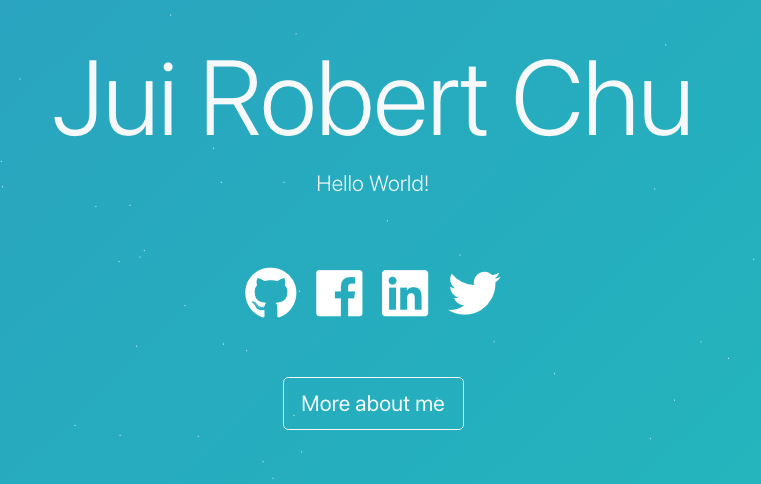
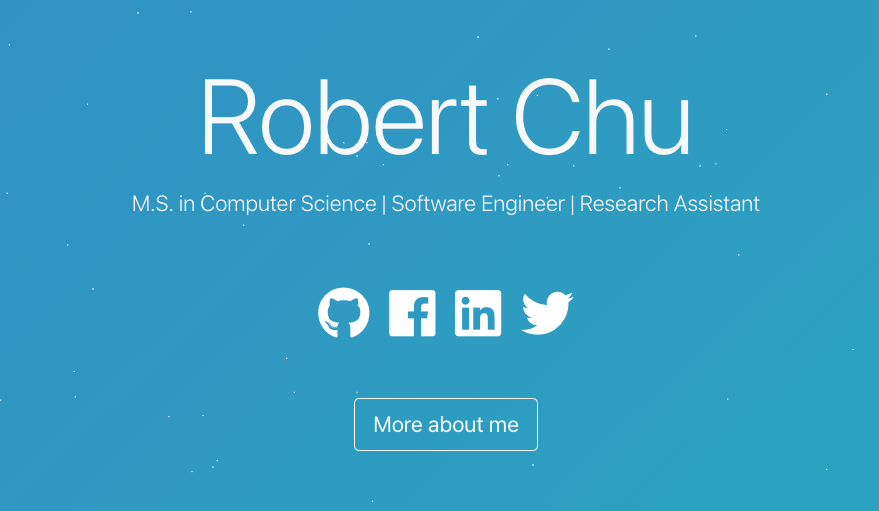
update experience layout

diff --git a/src/editable-stuff/config.js b/src/editable-stuff/config.js
@@ -6,10 +6,10 @@ const navBar = {
 // Main Body SECTION
 const mainBody = {
   gradientColors: "#4484ce, #1ad7c0, #ff9b11, #9b59b6, #ff7f7f, #ecf0f1",
-  firstName: "Jui",
-  middleName: "Robert",
+  firstName: "Robert",
+  middleName: "",
   lastName: "Chu",
-  message: " M.S. in Computer Science | Software Engineer | Research Assistant ",
+  message: " Computer Science | Software Engineer | Research Assistant ",
   icons: [
     {
       image: "fa-github",
@@ -25,7 +25,7 @@ const mainBody = {
     },
     {
       image: "fa-twitter",
-      url: "https://twitter.com/robertchu97",
+      url: "",
     },
   ],
 };
@@ -47,10 +47,10 @@ const mainBody = {
 const about = {
   show: true,
   heading: "About Me",
-  imageLink: require("../editable-stuff/robertchu_2.jpg"),
-  imageSize: 225,
+  imageLink: require("../editable-stuff/robertchu.jpg"),
+  imageSize: 150,
   message:
-    "Robert is a CS major and researcher in Machine Understanding, working toward Software Development to unleash his knowledge. Robert loves to deal with social issues by initiating valuable research topics and to apply his academic experience to industrial solutions, and he is ready to explore MORE!",
+    "Loading...",
   resume: "https://drive.google.com/file/d/1oPNTf5x1EY4gbvOdj5Z_39fiFEB-F4qZ/view?usp=sharing",
 };
 
@@ -60,7 +60,7 @@ const about = {
 // If you want to display specfic projects, add the repository names,
 //      i.e ["repository-1", "repo-2"]
 const repos = {
-  show: true,
+  show: false,
   heading: "Recent Projects",
   gitHubUsername: "robbchu", //i.e."johnDoe12Gh"
   reposLength: 2,
@@ -96,7 +96,6 @@ const skills = {
   show: true,
   heading: "Skills",
   hardSkills: [
-    { name: "Data Structures & Algorithms", value: 90 },
     { name: "OOP: Python/C++", value: 90 },
     { name: "MVC: Ruby on Rails", value: 80 },
     { name: "Cloud Computing: AWS", value: 75 },
@@ -121,7 +120,7 @@ const getInTouch = {
   show: true,
   heading: "Get In Touch",
   message:
-    "I'm currently looking for full-time Software Engineering or Machine Learning opportunities! If you know of any positions available, if you have any questions, or if you just want to say hi, please feel free to email me at",
+    "",
   email: "robert.chu@columbia.edu",
 };
 
@@ -129,25 +128,20 @@ const experiences = {
   show: true,
   heading: "Experiences",
   data: [
-    {
-      role: 'MSCS Student @ Columbia University',
-      companylogo: require('../assets/img/cu.png'),
-      date: 'Sep 2020 – May 2022',
+    { 
+      companylogo: require('../assets/img/meta-small.png'),
     },
     {
-      role: 'Software Engineer Intern @ Foxconn Industrial AI',
       companylogo: require('../assets/img/foxconn.png'),
-      date: 'Jun 2021 – Sep 2021',
     },
     {
-      role: 'Research Assistant @ National Taiwan University',
-      companylogo: require('../assets/img/ntu.jpg'),
-      date: 'Sep 2019 – Jan 2020',
+      companylogo: require('../assets/img/cu.png'),
     },
     {
-      role: 'Software Engineer Intern @ InQuartik',
       companylogo: require('../assets/img/inq.jpg'),
-      date: 'Jul 2019 – Aug 2019',
+    },
+    {
+      companylogo: require('../assets/img/ntu.jpg'),
     },
   ]
 }

diff --git a/src/components/home/Experience.jsx b/src/components/home/Experience.jsx
@@ -14,7 +14,7 @@ const Experience = ({experiences}) => {
                     <h2 className="display-4 mb-5 text-center">
                         {experiences.heading}
                     </h2>
-                    <Row>
+                    <Row className="flex-container justify-content-center align-items-center">
                         {
                             experiences.data.map(data => {
                                 return <ExperienceCard key={data.company} data={data} />

diff --git a/src/components/home/ExperienceCard.jsx b/src/components/home/ExperienceCard.jsx
@@ -6,9 +6,9 @@ import {
  } from "react-bootstrap";
 const ExperienceCard = ({data}) => {
     return ( 
-        <Col lg="6">
+        <Col lg="2">
             <div className="pb-5 text-center">
-                <img className=" bg-white mb-3" src={data.companylogo} alt=""/>
+                <img className=" bg-white mb-3" src={data.companylogo} alt="" width="90px"/>
                 <p className="lead">
                     {data.role}
                     <br/>

diff --git a/src/components/home/GetInTouch.jsx b/src/components/home/GetInTouch.jsx
@@ -5,7 +5,7 @@ const GetInTouch = ({ heading, message, email }) => {
     <>
       <h2 className="display-4 pb-3 text-center">{heading}</h2>
       <p className="lead text-center pb-3">
-        {message}, <a href={`mailto:${email}`}>{email}</a>.
+        {message} <a href={`mailto:${email}`}>{email}</a>.
       </p>
     </>
   );
